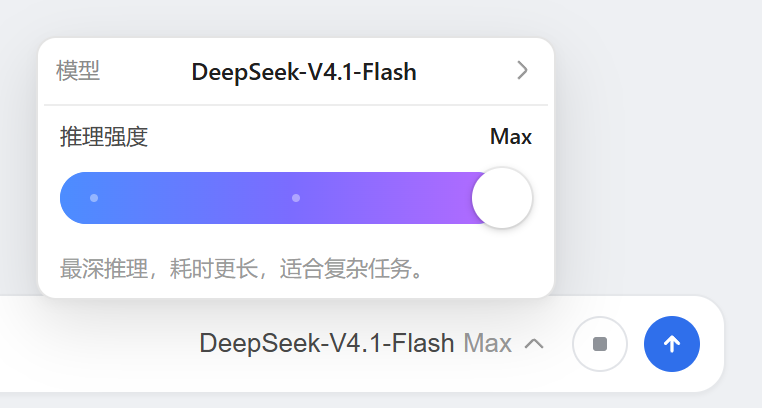
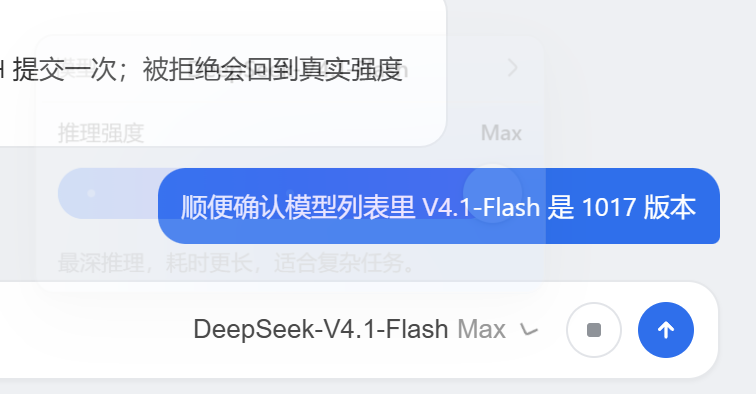
feat: frost the menu panels with the host's own glass recipe
DSH 0.2 defines --dsw-specific-menu as a translucent menu fill and --dsw-menu-backdrop-filter as the matching blur, but the host paints the blur itself. Painting only the fill left the composer readable through the panels, which is why they were forced opaque. The panels now declare the host blur too, so the host glass shows wherever the host provides it.

The declaration stays inside an @supports block over the opaque background, so a host with a solid fill (DSH 0.1.x, macOS's 94% override) and a browser without backdrop-filter both keep a solid panel.

diff --git a/index.js b/index.js
@@ -10,12 +10,17 @@ window.__ModuleLoader__.load({
         const slotName = "conversation.input.model";
 
         const css = `
-/* Panels are opaque. DSH 0.2 makes --dsw-specific-menu a translucent glass fill
-   that the host paints over a blurred backdrop; here it would let the composer
-   show through, so the host's fill is laid over the opaque page background. On
-   hosts where the menu fill is already opaque (0.1.0) the base never shows. */
+/* Panels ship opaque so the composer never bleeds through on a host that only
+   gives a translucent fill without a backdrop to blur it (DSH 0.1.0, or a menu
+   fill that is already solid). The @supports block further down then re-enables
+   the host's own frosted glass: a translucent fill plus its backdrop filter. */
 .dsh-es-root {
     --dsh-es-panel-bg: linear-gradient(var(--dsw-specific-menu), var(--dsw-specific-menu)), var(--dsw-alias-bg-base, #fff);
+    /* DSH 0.2 defines --dsw-specific-menu as a translucent glass fill and
+       --dsw-menu-backdrop-filter as the matching blur. Both fall back to a solid
+       fill so nothing depends on tokens a host may not define. */
+    --dsh-es-glass-bg: var(--dsw-specific-menu, var(--dsw-alias-bg-base, #fff));
+    --dsh-es-glass-blur: var(--dsw-menu-backdrop-filter, blur(40px) saturate(150%));
     min-width: 0;
     position: relative;
     display: inline-flex;
@@ -223,6 +228,16 @@ window.__ModuleLoader__.load({
     line-height: 15px;
     white-space: normal;
     pointer-events: none;
+}
+/* Frosted glass, exactly where the host paints it that way: its translucent menu
+   fill plus its backdrop filter. A host with an opaque fill keeps the solid panel,
+   and so does a browser without backdrop-filter. */
+@supports ((backdrop-filter: blur(1px)) or (-webkit-backdrop-filter: blur(1px))) {
+    .dsh-es-menu, .dsh-es-modelMenu, .dsh-es-menuItemTip {
+        background: var(--dsh-es-glass-bg);
+        -webkit-backdrop-filter: var(--dsh-es-glass-blur);
+        backdrop-filter: var(--dsh-es-glass-blur);
+    }
 }
 /* The name owns its width; the trailing description is the only thing that
    yields when a row runs out of space, so model names are never cut short by

diff --git a/README.md b/README.md
@@ -24,6 +24,8 @@
 
 **图片兼容提示。** 草稿里已有图片时，已知纯文本模型（`deepseek-official` 通道中除视觉模型外）会在行尾显示警告图标，悬停说明原因；真正是否可用仍以 DSH 的拒绝为准，被拒绝的模型会在列表里标记为不可选。
 
+**毛玻璃面板。** 菜单与提示浮层使用宿主自己的半透明菜单填充和 `--dsw-menu-backdrop-filter`（Windows/Linux 上即 `blur(40px) saturate(150%)`），与 DSH 自带菜单的毛玻璃观感一致。宿主填充本身是不透明的（DSH 0.1.0）、或浏览器不支持 `backdrop-filter` 时，自动退回不透明面板，正文不会透出来。
+
 ## 要求
 
 - DSH `0.1.0-rc.6` 或兼容版本。已在 `0.1.0-rc.6`、`0.1.2-rc.1`、`0.2.0-rc.2`、`0.2.1-alpha.2` 的 Web 端实测；桌面端（Electron + desktop profile）同样实测可用。
@@ -122,4 +124,5 @@ npm test        # verify-client.cjs：座位注册、滑块提交、回滚、排
 - **滑块弹回并出现红色提示**：DSH 拒绝了这次写入（会话被占用、模型不支持该强度等）。滑块回到真实强度并给出原因，再拖一次即可重试。
 - **在模型切换进行中松开滑块**：该次选择会保留，等 DSH 空闲后自动提交，不会丢失。
 - **滑条或滑块变成圆角方块**：DSH 0.1.2 起主题给所有元素加了 `corner-shape: superellipse(1.5)`，会把 `border-radius` 的圆画成圆角方块。本插件对滑条轨道、填充、旋钮与刻度点显式使用 `corner-shape: round`，菜单与触发器仍跟随 DSH 的圆角风格。
+- **菜单是不透明白色，没有毛玻璃**：说明宿主没有定义半透明填充。DSH 0.1.x 的 `--dsw-specific-menu` 是不透明值；macOS 上宿主把该变量覆盖为 94% 不透明，同样接近实色。Windows/Linux 的 0.2 宿主才会给出半透明填充加模糊。
 - **1017 角标没出现**：说明你目录项的提供方、模型 ID 或名称与官方规则不完全一致（例如 ID 不是 `deepseek-flash`）。以 `Settings → Models` 里该项的实际值为准调整 `isDeepSeek1017()` 的匹配条件。
